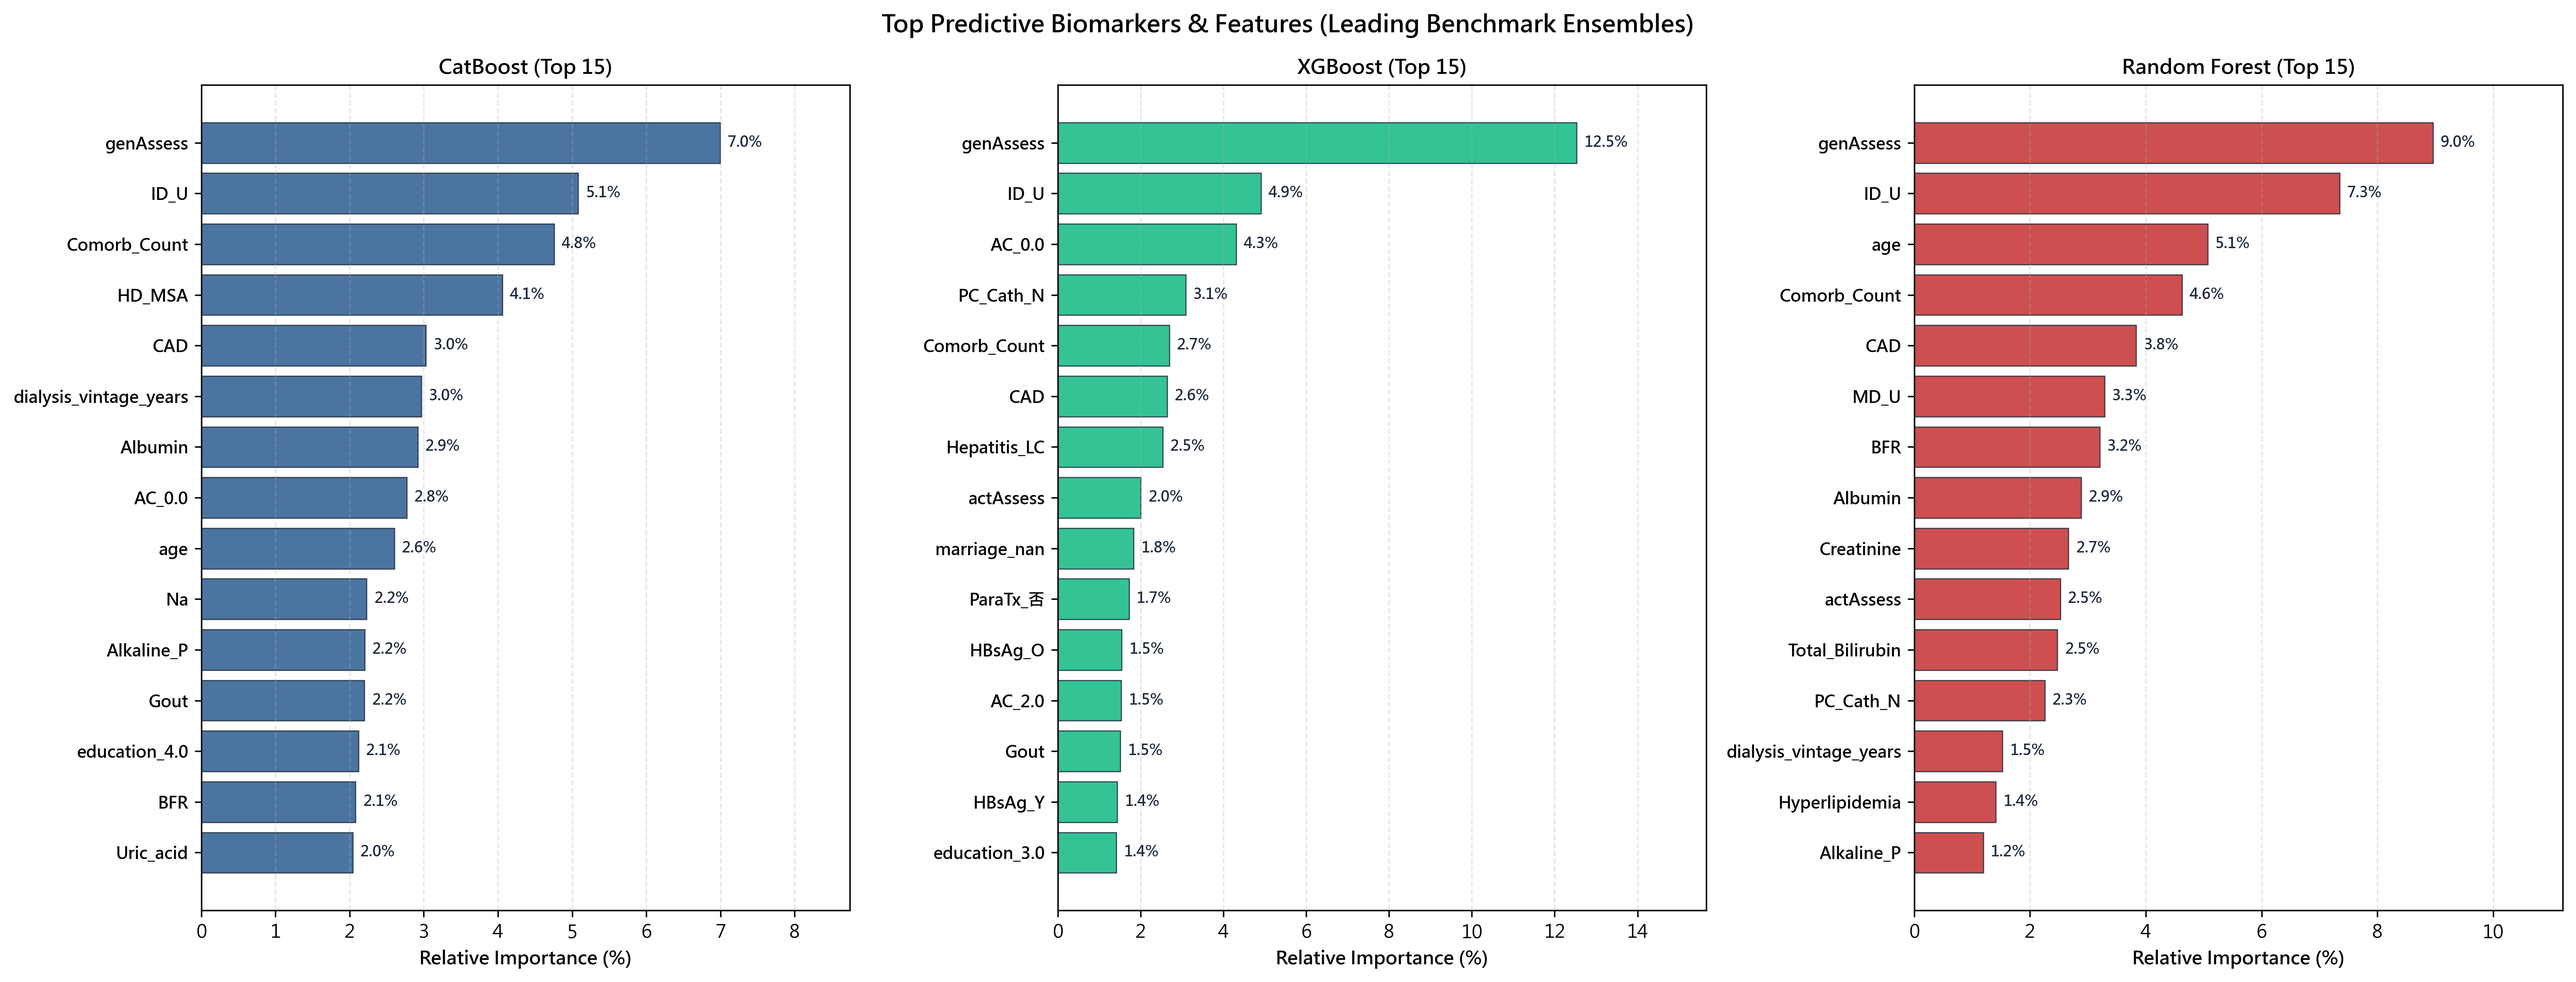
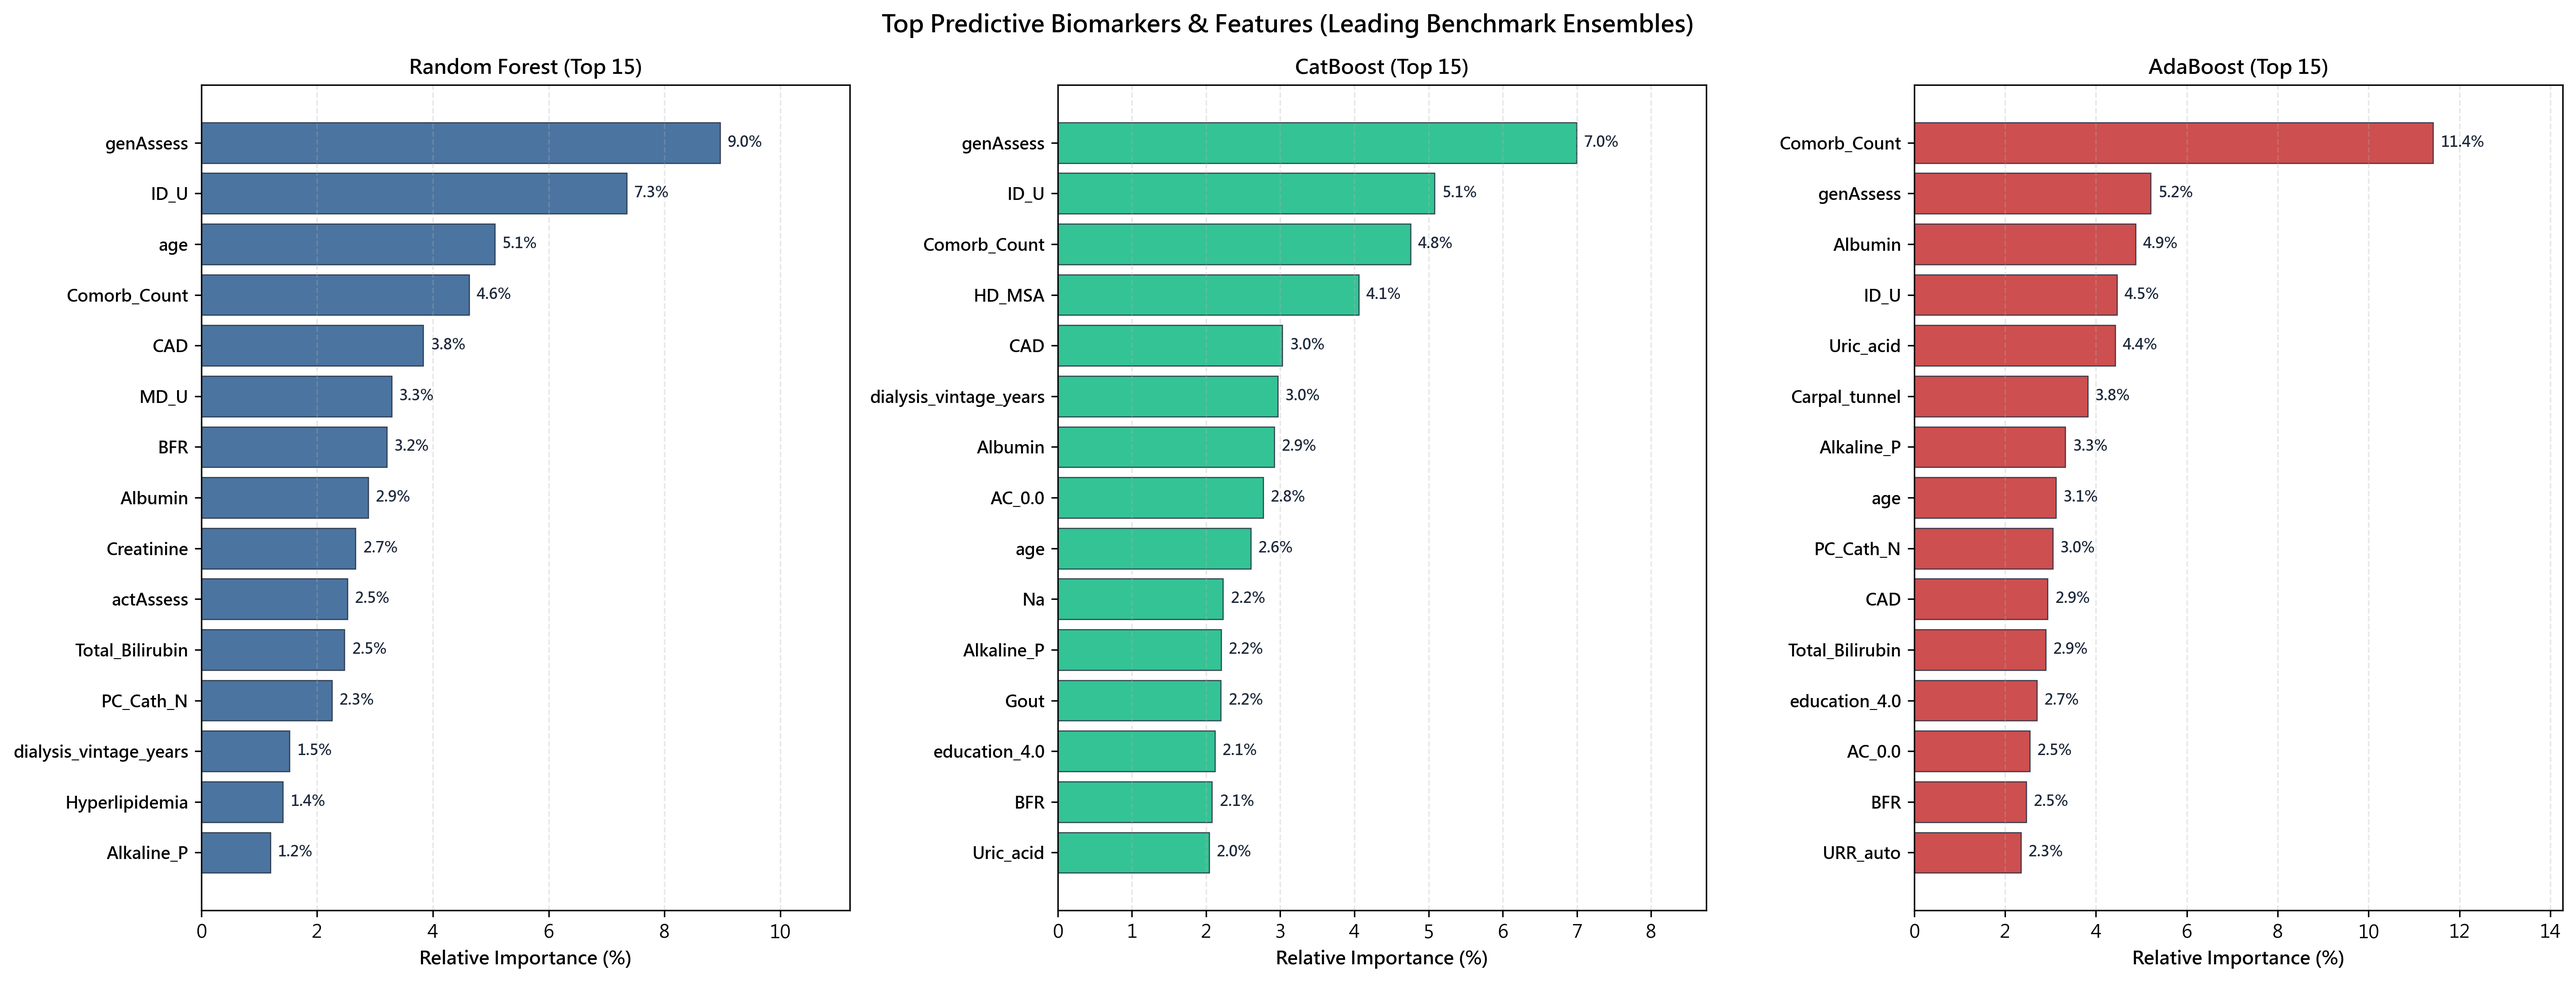
docs: Add recall and precision to benchmark report

diff --git a/reports/benchmark_summary.md b/reports/benchmark_summary.md
@@ -4,26 +4,47 @@
 - **Cohort**: Longitudinal Hemodialysis Rolling 3-Year Dynamic Cohort
 - **Training Records**: 3,737 observations (purified via multivariate $T^2$ & Jackson-Mudholkar SPE)
 - **Uncurated Test Records**: 1,112 observations (100% unpruned, zero synthetic distortion)
+- **Test Set Ground Truth**: 197 Deceased (17.72%), 915 Survived (82.28%)
 - **Validation Scheme**: 5-Fold `GroupKFold` strictly partitioned by `PatientID` (zero cross-fold identity leakage)
 - **Resampling**: In-Fold `SMOTE-NC` (spatial interpolation for continuous analytes, mode assignment for discrete flags)
 - **Threshold Calibration**: Optimal cutoff $T^* \in [0.05, 0.95]$ (step 0.01) maximizing F1-score strictly on Out-of-Fold (OOF) predictions
 - **Blinding Principle**: Test labels strictly isolated and untouched during all preprocessing, tuning, and threshold selection
 
-## Performance Leaderboard (Ranked by ROC-AUC)
+## Performance Leaderboard (Ranked by ROC-AUC, with Explicit Recall & Precision)
 
-| Model | Optimal $T^*$ | ROC-AUC | PR-AUC | Brier | Acc ($T=0.5$) | Sens ($T=0.5$) | Spec ($T=0.5$) | F1 ($T=0.5$) | Kappa ($T=0.5$) | Acc ($T^*$) | Sens ($T^*$) | Spec ($T^*$) | F1 ($T^*$) | Kappa ($T^*$) |
-|:---|:---:|:---:|:---:|:---:|:---:|:---:|:---:|:---:|:---:|:---:|:---:|:---:|:---:|:---:|
-| **Random Forest** | `0.52` | 0.9186 | 0.6886 | 0.1036 | 0.8804 | 0.7208 | 0.9148 | 0.6811 | 0.6077 | 0.8867 | 0.7056 | 0.9257 | 0.6881 | 0.6189 |
-| **CatBoost** | `0.38` | 0.9177 | 0.7157 | 0.0831 | 0.8921 | 0.6954 | 0.9344 | 0.6954 | 0.6299 | 0.8768 | 0.7513 | 0.9038 | 0.6836 | 0.6079 |
-| **AdaBoost** | `0.51` | 0.9147 | 0.6920 | 0.1892 | 0.8615 | 0.7563 | 0.8842 | 0.6593 | 0.5742 | 0.8678 | 0.6802 | 0.9082 | 0.6458 | 0.5648 |
-| **XGBoost** | `0.41` | 0.9067 | 0.7086 | 0.0879 | 0.8831 | 0.6599 | 0.9311 | 0.6667 | 0.5958 | 0.8741 | 0.7005 | 0.9115 | 0.6635 | 0.5863 |
-| **Extra Trees** | `0.50` | 0.9049 | 0.6777 | 0.1180 | 0.8768 | 0.7157 | 0.9115 | 0.6730 | 0.5975 | 0.8768 | 0.7157 | 0.9115 | 0.6730 | 0.5975 |
-| **Gradient Boosting** | `0.44` | 0.9017 | 0.6960 | 0.0929 | 0.8768 | 0.6751 | 0.9202 | 0.6600 | 0.5849 | 0.8750 | 0.7005 | 0.9126 | 0.6651 | 0.5885 |
-| **Logistic Regression** | `0.58` | 0.8911 | 0.6612 | 0.1085 | 0.8489 | 0.6650 | 0.8885 | 0.6093 | 0.5165 | 0.8543 | 0.6142 | 0.9060 | 0.5990 | 0.5101 |
-| **SVM** | `0.64` | 0.8226 | 0.6045 | 0.2028 | 0.6673 | 0.7310 | 0.6536 | 0.4377 | 0.2520 | 0.6682 | 0.7310 | 0.6546 | 0.4384 | 0.2531 |
-| **KNN** | `0.72` | 0.8107 | 0.4850 | 0.1806 | 0.7554 | 0.7360 | 0.7596 | 0.5160 | 0.3714 | 0.8327 | 0.5482 | 0.8940 | 0.5373 | 0.4353 |
-| **GaussianNB** | `0.95` | 0.7970 | 0.5108 | 0.2377 | 0.7536 | 0.6954 | 0.7661 | 0.5000 | 0.3532 | 0.7716 | 0.6853 | 0.7902 | 0.5153 | 0.3777 |
-| **Decision Tree** | `0.38` | 0.7871 | 0.4284 | 0.1492 | 0.8112 | 0.6447 | 0.8470 | 0.5474 | 0.4315 | 0.7842 | 0.7157 | 0.7989 | 0.5402 | 0.4101 |
+| Rank | Model | Optimal $T^*$ | ROC-AUC | PR-AUC | Brier | Recall / Sens ($T^*$) | True Positives (TP / 197) | Precision ($T^*$) | False Positives (FP) | Spec ($T^*$) | F1 ($T^*$) | Acc ($T^*$) | Kappa ($T^*$) |
+|:---:|:---|:---:|:---:|:---:|:---:|:---:|:---:|:---:|:---:|:---:|:---:|:---:|:---:|
+| 🥇 | **Random Forest** | `0.52` | **0.9186** | 0.6886 | 0.1036 | 70.6% | 139 / 197 | **67.1%** | **68** | **0.9257** | **0.6881** | **0.8867** | **0.6189** |
+| 🥈 | **CatBoost** | `0.38` | **0.9177** | **0.7157** | **0.0831** | **75.1%** | **148 / 197** | 62.7% | 88 | 0.9038 | 0.6836 | 0.8768 | 0.6079 |
+| 🥉 | **AdaBoost** | `0.51` | 0.9147 | 0.6920 | 0.1892 | 68.0% | 134 / 197 | 61.5% | 84 | 0.9082 | 0.6458 | 0.8678 | 0.5648 |
+| 4 | **XGBoost** | `0.41` | 0.9067 | 0.7086 | 0.0879 | 70.1% | 138 / 197 | 63.0% | 81 | 0.9115 | 0.6635 | 0.8741 | 0.5863 |
+| 5 | **Extra Trees** | `0.50` | 0.9049 | 0.6777 | 0.1180 | 71.6% | 141 / 197 | 63.5% | 81 | 0.9115 | 0.6730 | 0.8768 | 0.5975 |
+| 6 | **Gradient Boosting** | `0.44` | 0.9017 | 0.6960 | 0.0929 | 70.1% | 138 / 197 | 63.3% | 80 | 0.9126 | 0.6651 | 0.8750 | 0.5885 |
+| 7 | **Logistic Regression** | `0.58` | 0.8911 | 0.6612 | 0.1085 | 61.4% | 121 / 197 | 58.5% | 86 | 0.9060 | 0.5990 | 0.8543 | 0.5101 |
+| 8 | **SVM** | `0.64` | 0.8226 | 0.6045 | 0.2028 | 73.1% | 144 / 197 | 31.3% | 316 | 0.6546 | 0.4384 | 0.6682 | 0.2531 |
+| 9 | **KNN** | `0.72` | 0.8107 | 0.4850 | 0.1806 | 54.8% | 108 / 197 | 52.7% | 97 | 0.8940 | 0.5373 | 0.8327 | 0.4353 |
+| 10 | **GaussianNB** | `0.95` | 0.7970 | 0.5108 | 0.2377 | 68.5% | 135 / 197 | 41.3% | 192 | 0.7902 | 0.5153 | 0.7716 | 0.3777 |
+| 11 | **Decision Tree** | `0.38` | 0.7871 | 0.4284 | 0.1492 | 71.6% | 141 / 197 | 43.4% | 184 | 0.7989 | 0.5402 | 0.7842 | 0.4101 |
+
+---
+
+## Default Threshold ($T=0.50$) Comparison
+
+| Model | Recall / Sens ($T=0.5$) | True Positives (TP / 197) | Precision ($T=0.5$) | False Positives (FP) | Specificity ($T=0.5$) | F1 ($T=0.5$) | Accuracy ($T=0.5$) | Kappa ($T=0.5$) |
+|:---|:---:|:---:|:---:|:---:|:---:|:---:|:---:|:---:|
+| **Random Forest** | 72.1% | 142 / 197 | 64.5% | 78 | 0.9148 | 0.6811 | 0.8804 | 0.6077 |
+| **CatBoost** | 69.5% | 137 / 197 | **69.5%** | **60** | **0.9344** | **0.6954** | **0.8921** | **0.6299** |
+| **AdaBoost** | **75.6%** | **149 / 197** | 58.4% | 106 | 0.8842 | 0.6593 | 0.8615 | 0.5742 |
+| **XGBoost** | 66.0% | 130 / 197 | 67.4% | 63 | 0.9311 | 0.6667 | 0.8831 | 0.5958 |
+| **Extra Trees** | 71.6% | 141 / 197 | 63.5% | 81 | 0.9115 | 0.6730 | 0.8768 | 0.5975 |
+| **Gradient Boosting** | 67.5% | 133 / 197 | 64.6% | 73 | 0.9202 | 0.6600 | 0.8768 | 0.5849 |
+| **Logistic Regression** | 66.5% | 131 / 197 | 56.2% | 102 | 0.8885 | 0.6093 | 0.8489 | 0.5165 |
+| **SVM** | 73.1% | 144 / 197 | 31.2% | 317 | 0.6536 | 0.4377 | 0.6673 | 0.2520 |
+| **KNN** | 73.6% | 145 / 197 | 39.7% | 220 | 0.7596 | 0.5160 | 0.7554 | 0.3714 |
+| **GaussianNB** | 69.5% | 137 / 197 | 39.0% | 214 | 0.7661 | 0.5000 | 0.7536 | 0.3532 |
+| **Decision Tree** | 64.5% | 127 / 197 | 47.6% | 140 | 0.8470 | 0.5474 | 0.8112 | 0.4315 |
+
+---
 
 ## Anti-Leakage Audit Trail
 - [x] Uncurated test set sample count strictly equals 1,112 (zero synthetic instances, zero dropped rows).
